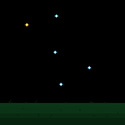
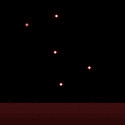
dupsko

diff --git a/www/index.html b/www/index.html
@@ -18,8 +18,8 @@
 		<div data-role="page" id="pageone" align="center">
 		
 		
-		  <div data-role="header" data-position="fixed" style="background-color: #001;">
-			<h1><font id="czcionka" color="#700"> ASYSTENT OBSERWACJI ASTRONOMICZNYCH. </font></h1>
+		  <div class="header" data-role="header" data-position="fixed" style="background-color: #300;">
+			<h1><font id="czcionkaa" color="#A00" > ASYSTENT OBSERWACJI ASTRONOMICZNYCH. </font></h1>
 		  </div>
 		  
 		  
@@ -37,7 +37,7 @@
 			</div>
 			<br>
 			<div style="background-color: #200; width: 70%; height: 15%;">
-			<a onclick="OtworzStrone();" style="text-decoration: none; "><button style="background-color: #250000;"><font color="#900" id="czcionka"><i> BLOG ASTRONOMICZNY </i></font></button</a>
+			<a onclick="OtworzStrone();" style="text-decoration: none;" ><button style="background-color: #250000;"><font color="#900" id="czcionka"><i> BLOG ASTRONOMICZNY </i></font></button</a>
 			
 			</div>
 			<br>
@@ -246,12 +246,12 @@
 			
 		</div>		
 		
-		<!-- Wisielec -->
+		<!-- Orion -->
 		
-		<div data-role="page" id="wisielec" style="background-color: #001;">
+		<div data-role="page" id="wisielec" style="background-color: #000;">
 		
-			<div data-role="header" style="background-color: #002;">
-				<h1><font color="#bbb"> Gra Orion </font></h1>
+			<div data-role="header" class="header" style="background-color: #300;">
+				<h1><font color="#900" id="czcionka"> Gra Orion </font></h1>
 				
 			</div>
 				<div data-role="main" class="ui-content">
@@ -290,9 +290,9 @@
 				
 				
 				
-			<div data-role="footer" style="background-color: #772; ">
+			<div data-role="footer" class="header" style="background-color: #300;">
 			
-			<h1><font color="#111">(c) McGoris Polska </font></h1>
+			<h1><font color="#900" id="czcionka">(c) McGoris Polska </font></h1>
 		  </div> 
 		</div> 
 		

diff --git a/www/css/style.css b/www/css/style.css
@@ -101,6 +101,15 @@
 	font-family: Trebuchet MS;
 	text-shadow: none;
 	
+	
+}
+
+#czcionkaa
+{
+	font-family: Arial Narrow;
+	text-shadow: none;
+	font-size: 24px;
+	display: block;
 }
 
 
@@ -162,8 +171,9 @@
 }
 
 
-.ui-page
+
+.header
 {
 	border: 0px;
+	
 }
-
